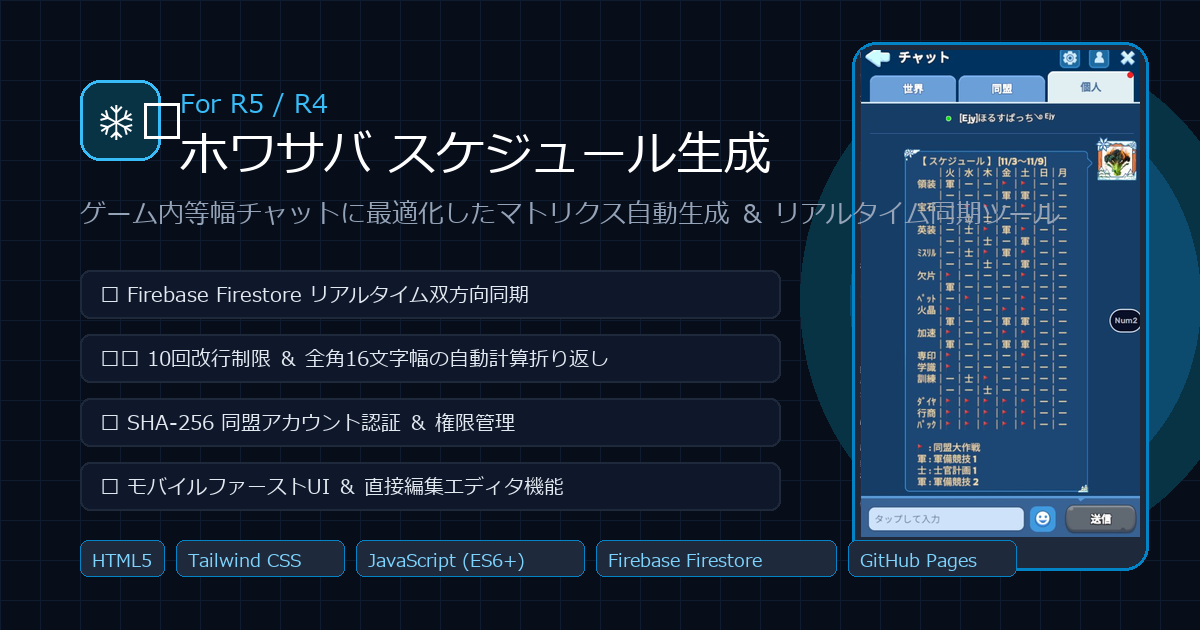
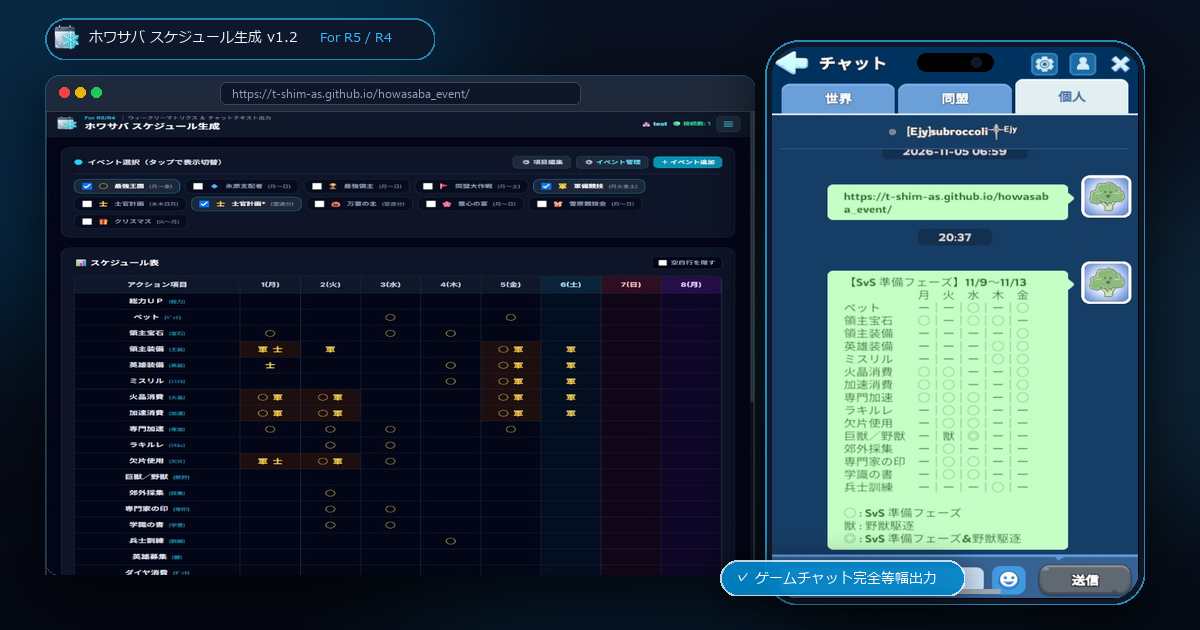
feat: update Howasaba Schedule preview image with game chat mockup and v1.2 features

diff --git a/index.html b/index.html
@@ -88,20 +88,20 @@
       <div class="row">
         <section class="col-lg-6 mb-5" id="09_HowasabaSchedule">
           <div class="card">
-            <a class="card-header text-dark text-lg" href="https://t-shim-as.github.io/howasaba_event/" target="_blank" rel="noopener noreferrer">ホワサバ スケジュール生成 - チャット特化マトリクス＆リアルタイム共同編集ツール</a>
+            <a class="card-header text-dark text-lg" href="https://t-shim-as.github.io/howasaba_event/" target="_blank" rel="noopener noreferrer">ホワサバ スケジュール生成 (v1.2) - チャット特化マトリクス＆リアルタイム共同編集ツール</a>
             <div class="card-body p-0 border-bottom">
               <a href="https://t-shim-as.github.io/howasaba_event/" target="_blank" rel="noopener noreferrer">
                 <img src="projects/09_HowasabaSchedule/app_preview.png" alt="ホワサバ スケジュール生成" width="100%" height="250" class="b">
               </a>
             </div> 
             <div class="card-body">
-              <p class="card-text">スマートフォン戦略ゲーム「ホワイトアウト・サバイバル」の同盟幹部（R5/R4）向けスケジュール支援Webアプリです。<br>ゲーム内等幅チャット特有の制約（改行上限10回、全角16文字幅の自動折り返し、サロゲートペアによる文字幅ズレ）を精密な文字幅計算と自然折り返し技術で克服。さらにFirebase Cloud Firestoreを用いたリアルタイム双方向同期により、複数幹部間でのリアルタイム共同編集と編集中競合ガードを実現しています。</p>
+              <p class="card-text">スマートフォン戦略ゲーム「ホワイトアウト・サバイバル」の同盟幹部（R5/R4）向けスケジュール支援Webアプリです。<br>ゲーム内等幅チャット特有の制約（改行上限10回、全角16文字幅の自動折り返し、サロゲートペアによる文字幅ズレ）を精密な文字幅計算と自然折り返し技術で克服。さらにFirebase Cloud Firestoreを用いたリアルタイム双方向同期、RTDBによる接続端末数検知、Stripe決済連携による開発者支援機能を備えています。</p>
             </div>
             <div class="card-body p-0 m-0 accordion" id="howasabaDetails">
               <div class="list-group-flush">
                 <div class="list-group-item border-top">役割: 企画・要件定義・UI/UX設計・フロントエンド実装・サーバーレスDB設計（単独開発）</div>
                 <div class="list-group-item py-2 d-flex align-items-center justify-content-between rounded-bottom">
-                  <span>制作時期: 2026年10月</span>
+                  <span>制作時期: 2026年10月〜11月 (v1.2.0)</span>
                   <button class="btn btn-secondary btn-sm" type="button" data-toggle="collapse" data-target="#collapseHowasaba" aria-expanded="false" aria-controls="collapseHowasaba">
                     詳細を表示
                   </button>
@@ -111,19 +111,23 @@
                 <div class="list-group-item border-top">
                   <b>【技術スタック】</b><br>
                   ・フロントエンド: HTML5, CSS3, JavaScript (ES6+), Tailwind CSS<br>
-                  ・クラウドDB / BaaS: Firebase Cloud Firestore (リアルタイム双方向同期 onSnapshot / セキュリティルール)<br>
+                  ・クラウドDB / BaaS: Firebase Cloud Firestore (リアルタイム双方向同期 onSnapshot / セキュリティルール)、Firebase Realtime Database (プレゼンス機能による接続端末数リアルタイム検知)<br>
+                  ・決済連携: Stripe Payment Link (Apple Pay / Google Pay / クレジットカード決済による開発者支援・寄付連携)<br>
                   ・セキュリティ・暗号化: Web Crypto API (SubtleCrypto / SHA-256 ハッシュ化によるクライアント認証)<br>
                   ・アルゴリズム・文字処理: Unicodeサロゲートペア・異体字対応トークナイザ、半角/全角表示幅計算、末尾スペース自動折り返しフォーマッタ<br>
+                  ・共有 / シェア: Web Share API、クリップボードAPI (Discord用テンプレート出力)、OGP (Discord/SNS大判プレビュー最適化)<br>
                   ・ホスティング / CI/CD: GitHub Pages, Git / GitHub<br>
                 </div>
                 <div class="list-group-item">
                   <b>【主な機能・課題解決】</b><br>
                   ・<b>ゲーム内チャット制約の完全克服: </b>「本文改行を消費せず全角16文字幅で自然改行させる末尾スペース付与」「全角・半角・絵文字の精密な幅合わせ」により、スマホ/PC問わず絶対に崩れない表を出力<br>
                   ・<b>リアルタイム双方向同期: </b>Firebase Firestoreのリスナーにより、同盟内幹部の編集内容をリロード不要で画面へ即座に自動反映<br>
+                  ・<b>アクティブ接続数検知: </b>Firebase RTDBのプレゼンス機能（.info/connected、onDisconnect）を活用し、現在アプリを開いている端末数をヘッダーにリアルタイム（🟢 接続数: N）表示<br>
                   ・<b>編集中競合ガード: </b>自身がモーダルで編集作業中は他者の変更適用を待機させ、作業中データの不意な上書き・消失を防止<br>
                   ・<b>同盟アカウント認証: </b>アカウントID＋パスワード（SHA-256）による安全な権限分離、旧セッション自動ログアウト付きパスワード変更機能<br>
                   ・<b>直感的なマトリクス操作: </b>8日間固定テーブル、イベントの優先度ドラッグ並べ替え、重複項目の記号統合（🔴🔵等）＆カスタマイズ<br>
-                  ・<b>モバイルファーストUI: </b>スマートフォンでも折り返さない1段ヘッダー、ハンバーガーメニュー、直感的な直接テキスト編集モード<br>
+                  ・<b>ワンクリック共有＆Discord連携: </b>Web Share APIやDiscord専用テンプレート生成により、幹部から同盟メンバーへのアプリ共有動線を最適化<br>
+                  ・<b>Stripe開発者支援: </b>Apple Pay / Google Pay対応のセキュアな決済リンクをUI内に統合し、持続可能な個人開発体制を構築<br>
                   ・<b>二重の安全性: </b>JSONエクスポート/インポート（バックアップ・別同盟への複製）、初期テンプレート展開機能<br>
                 </div>
                 <div class="list-group-item">
